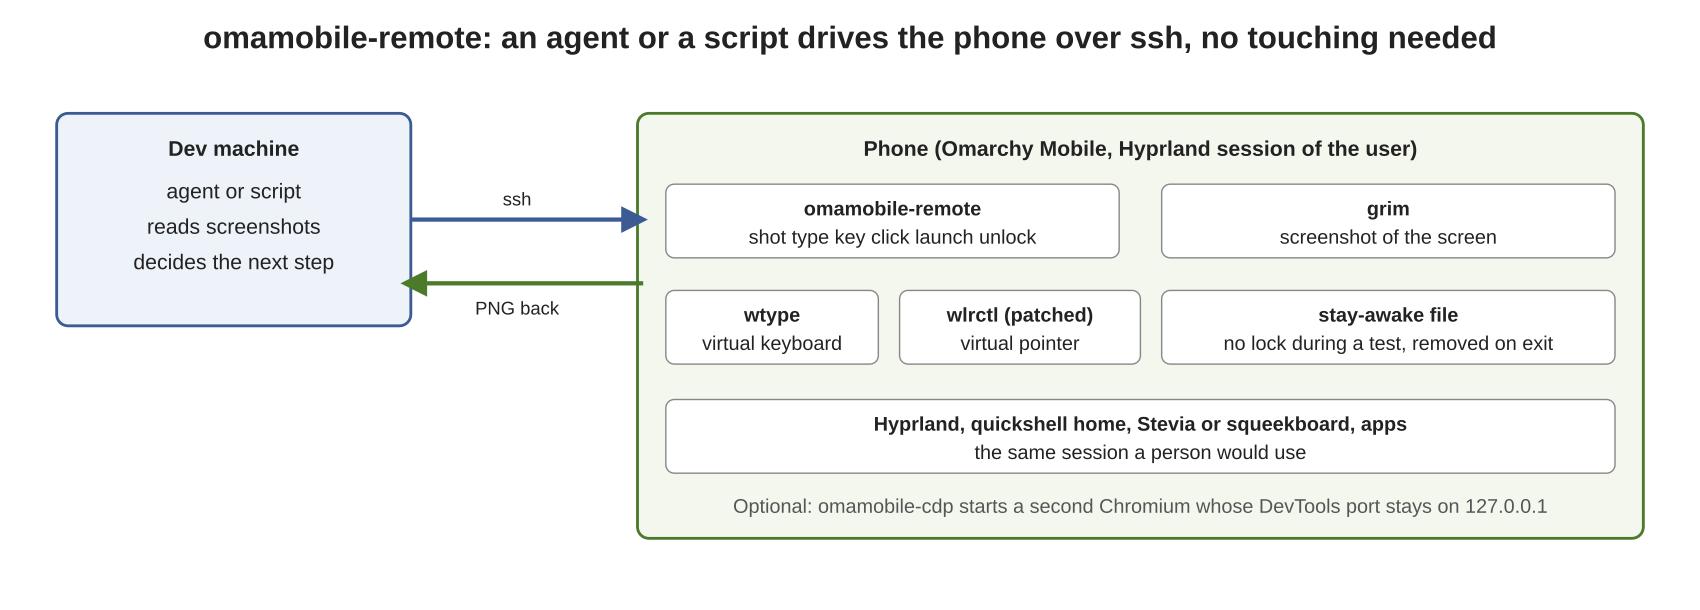
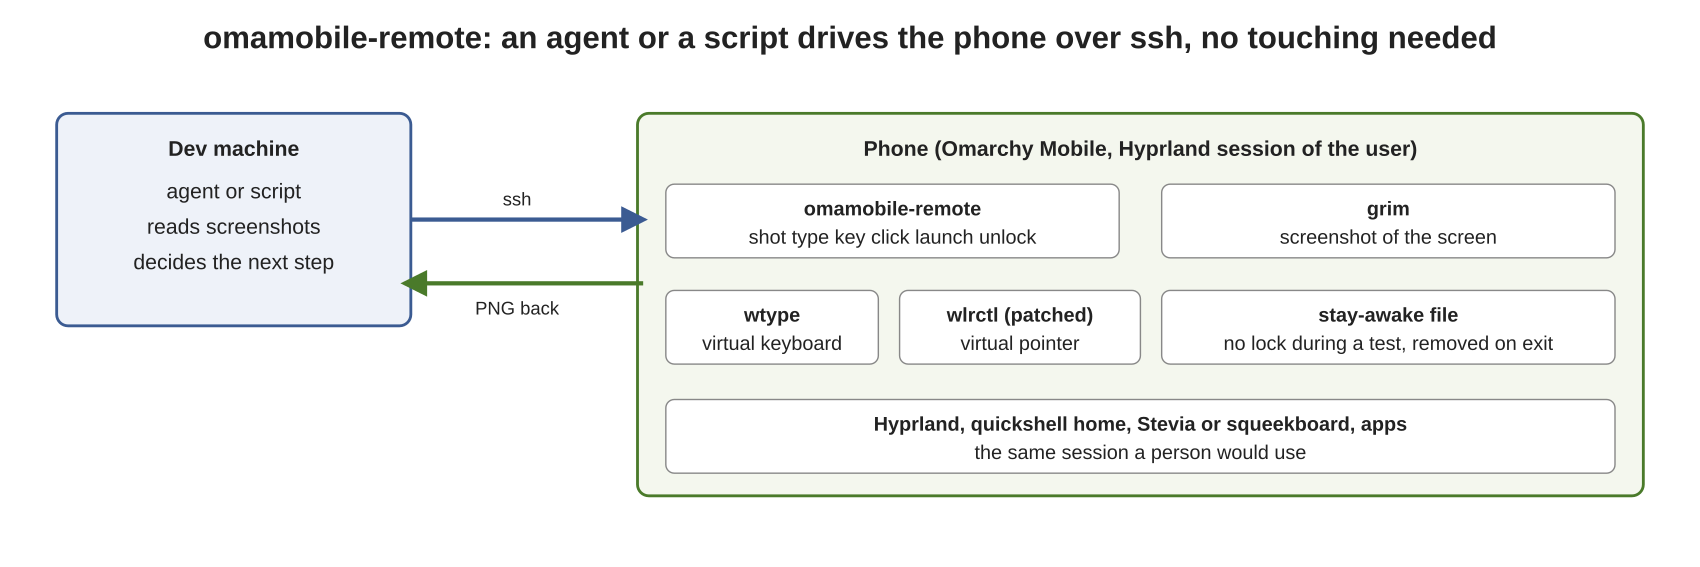
omamobile-remote 0.1.0: use the phone over ssh from a script or an agent (opt-in)
Bringing up a phone is mostly trying things on it, and the person
holding it is the slow part. This installs one command that looks at the
screen and uses it like a person would: screenshot, type, keys, pointer
move, click, scroll, launch, lock, unlock, and keep the phone from
locking while a test runs. omamobile-osk-switch swaps squeekboard and a
Stevia drop-in for testing both keyboards.

Opt-in like omamobile-waydroid: no unit, no udev rule, nothing listens,
and no image installs it. Only the command name goes to the journal. The
PIN comes from stdin or the environment, is removed from the environment
when the script starts, and is never an argument.

Things found by running it on a Pixel 8 Pro that the stand-ins could
not: grim waits forever on a dark display (hardware keys don't wake it,
so shot switches it on with the dpms dispatcher and times grim out);
omarchy-shell fails over ssh without OMARCHY_PATH, which would have made
unlock report success on a locked phone, so the lock state is read
strictly and fails loudly; apps started over ssh got the C locale.

docs/REMOTE-TESTING.md walks through it with screenshots. test/all runs
the real script against stand-ins for grim, wtype, wlrctl, hyprctl,
omarchy-shell and pgrep; no phone needed. The Chromium DevTools launcher
from issue #460 is not in this one.

diff --git a/packages/omamobile-remote/README.md b/packages/omamobile-remote/README.md
@@ -2,7 +2,7 @@
 
 Use an Omarchy Mobile phone over ssh the way a person would: look at the screen, type, move a pointer, click, scroll, unlock, start apps. A script or an AI agent can then test a phone (sound, camera, Wi-Fi, keyboards, apps) with nobody holding it, which is the slow part of bringing up a new device.
 
-It is opt-in. No image installs it. The package enables nothing: no systemd unit, no udev rule, no group, and nothing listens. It does nothing until someone logs in to the phone over ssh and runs it. (`omamobile-cdp` opens a port on 127.0.0.1 while you run it.)
+It is opt-in. No image installs it. The package enables nothing: no systemd unit, no udev rule, no group, and nothing listens. It does nothing until someone logs in to the phone over ssh and runs it.
 
 ```
 ssh phone omamobile-remote shot                 # screenshot, prints the path
@@ -19,9 +19,7 @@ The full commands are in `omamobile-remote help`. A walk-through with screenshot
 ## What is in it
 
 - `omamobile-remote`: the commands above. It finds the user's Wayland and Hyprland session itself, so a plain ssh login is enough.
-- `omamobile-cdp`: a second Chromium with its own profile and the DevTools port on `127.0.0.1` only, for testing web pages. Start it by hand and close it when done.
-- `cdp.py` (in `/usr/lib/omamobile-remote/`): a small DevTools client without dependencies: `list`, `eval`, `shot`.
-- `omamobile-osk-switch`: moves a Stevia user drop-in for `omamobile-osk.service` aside and back, to test both on-screen keyboards. It does nothing when there is no such drop-in.
+- `omamobile-osk-switch`: moves a Stevia user drop-in for `omamobile-osk.service` aside and back, to test both on-screen keyboards. With no such drop-in it only says so.
 
 It depends on the `wlrctl` package in this repository, which is upstream wlrctl 0.2.2 with one patch. Stock wlrctl moves the pointer on a phone, but its clicks and scrolls are dropped, because it creates a pointer per command and a phone has no other pointer for Hyprland to focus. The patch is explained in its header and in the docs.
 
@@ -30,12 +28,11 @@ It depends on the `wlrctl` package in this repository, which is upstream wlrctl 
 - Everything runs as the user who ran it. There is no new way in: the way in is the ssh login you already have, and that login is already as powerful as the unlocked screen, so keep ssh to a key and to USB or a network you trust.
 - The PIN is read from stdin or `$OMAMOBILE_PIN` and typed through the virtual keyboard. It is never an argument, never in the journal, never written to a file, and `$OMAMOBILE_PIN` is removed from the environment as the script starts, so nothing `keep-awake`, `run` or `launch` starts has it. Do not put a real PIN in a shell history: use `read -s`.
 - Only the command name goes to the journal (`journalctl -t omamobile-remote`), never its arguments.
-- `omamobile-cdp` uses a separate profile, so none of the real browser's cookies or logins are exposed, and the port is bound to `127.0.0.1`. The port has no authentication: while it is open, any process on the phone can drive that browser, so start it for the test and close it. It refuses `--remote-debugging-*`, `--user-data-dir` and `--remote-allow-origins` on its command line. Reach it from a computer with `ssh -L 9222:127.0.0.1:9222 phone`. The `--remote-debugging-address` flag is placed after anything in `~/.config/chromium-flags.conf`, so it is the one that applies.
 - `keep-awake` touches `~/.local/state/omarchy/indicators/stay-awake` (the file the shell's "stay awake" toggle uses) and removes it again when the command ends, unless it was already there. TERM and HUP go on to the command and the file is removed after it ends; only SIGKILL leaves it (`omarchy-toggle-idle allow-idle` removes it). It does not unlock a locked phone.
 - Do not use a real PIN you care about on a phone that repeated wrong tries could lock out: `unlock` stops after one try.
 
 ## Limits, measured on a Pixel 8 Pro
 
-Works: screenshots, typing, keys, pointer move, left and right click, two clicks in a row, scroll up and down, unlock, launching apps, both on-screen keyboards (squeekboard and Stevia), a second-profile Chromium with DevTools.
+Works: screenshots, typing, keys, pointer move, left and right click, two clicks in a row, scroll up and down, unlock, launching apps, both on-screen keyboards (squeekboard and Stevia).
 Not done: drag (the wlrctl command line has no press, move, release in one process), touch gestures (the phone's touchscreen cannot be driven: that needs `uinput`, which the kernel does not build yet), long-press on a key, pinch.
 A click or a scroll takes 0.6 to 0.7 s because of the waits that make Hyprland deliver it. `shot` without a file name writes into `$XDG_RUNTIME_DIR` and leaves the picture there until you log out.

diff --git a/docs/REMOTE-TESTING.md b/docs/REMOTE-TESTING.md
@@ -5,7 +5,7 @@ Most of bringing up a phone is trying things on it: does the speaker play, does 
 
 ![An agent or script on a computer drives the phone over ssh](screenshots/remote/remote-overview.png)
 
-It is opt-in. `omamobile-remote` and the patched `wlrctl` are in `packages/`, no image installs them, and installing them enables nothing: no service, no udev rule, and nothing listens. (`omamobile-cdp` opens a port on 127.0.0.1 while you run it; see [Security](#security).) See [Security](#security).
+It is opt-in. `omamobile-remote` and the patched `wlrctl` are in `packages/`, no image installs them, and installing them enables nothing: no service, no udev rule, and nothing listens.. See [Security](#security).
 
 `omamobile-mirror` is the other way in: a VNC window on your computer, with your own mouse and keyboard driving the phone, for demos and for typing. This is for scripts and agents: nothing to watch, no viewer, no open port, and every action and screenshot is a command with an exit code.
 
@@ -169,11 +169,10 @@ Things that make an agent's run reliable: one action then one screenshot; check 
 - Everything runs as the user who ran it. The only way in is the ssh login you already have, and that login already controls the unlocked screen, so keep ssh to a key and to USB or a network you trust.
 - The PIN is read from stdin or `$OMAMOBILE_PIN` and typed through the virtual keyboard from a pipe. It is never an argument, a log line or a file. If it came in through `$OMAMOBILE_PIN`, the script removes that variable from its environment as it starts, so what `keep-awake`, `run` and `launch` start never has it; the test suite checks the journal, the logs and those three environments. While `unlock` itself runs, the PIN is in the memory of that process. Do not put a real PIN in your shell history.
 - Only the command name goes to the journal (`journalctl -t omamobile-remote`), never its arguments.
-- `omamobile-cdp` starts a second Chromium with its own profile, so none of the real browser's cookies or logins are exposed, and the DevTools port is on 127.0.0.1 only (I checked with `ss -ltn`, and that it closes with the window). The port has no authentication, so while it is open any process of any user on the phone can drive that browser. Start it only for the test, and close it. It refuses `--remote-debugging-*`, `--user-data-dir` and `--remote-allow-origins` on its own command line. Reach it with `ssh -L 9222:127.0.0.1:9222 phone` and `/usr/lib/omamobile-remote/cdp.py`.
 
 ## Limits
 
-Measured and working with the packaged tools: screenshots (full and cropped), typing, keys with modifiers, pointer move, left and right click, two clicks in a row, scroll up and down, `tap` at two positions in a terminal that reports mouse events, lock, unlock, launching apps, both on-screen keyboards, and `omamobile-cdp` with `cdp.py` (`list`, `eval`, `shot`).
+Measured and working with the packaged tools: screenshots (full and cropped), typing, keys with modifiers, pointer move, left and right click, two clicks in a row, scroll up and down, `tap` at two positions in a terminal that reports mouse events, lock, unlock, launching apps, both on-screen keyboards.
 
 Not done: drag (the wlrctl command line has no press, move, release in one process), the touchscreen itself (it would need `uinput`, which the test kernel does not build yet), long-press on a key, pinch and multi-finger gestures.
 
